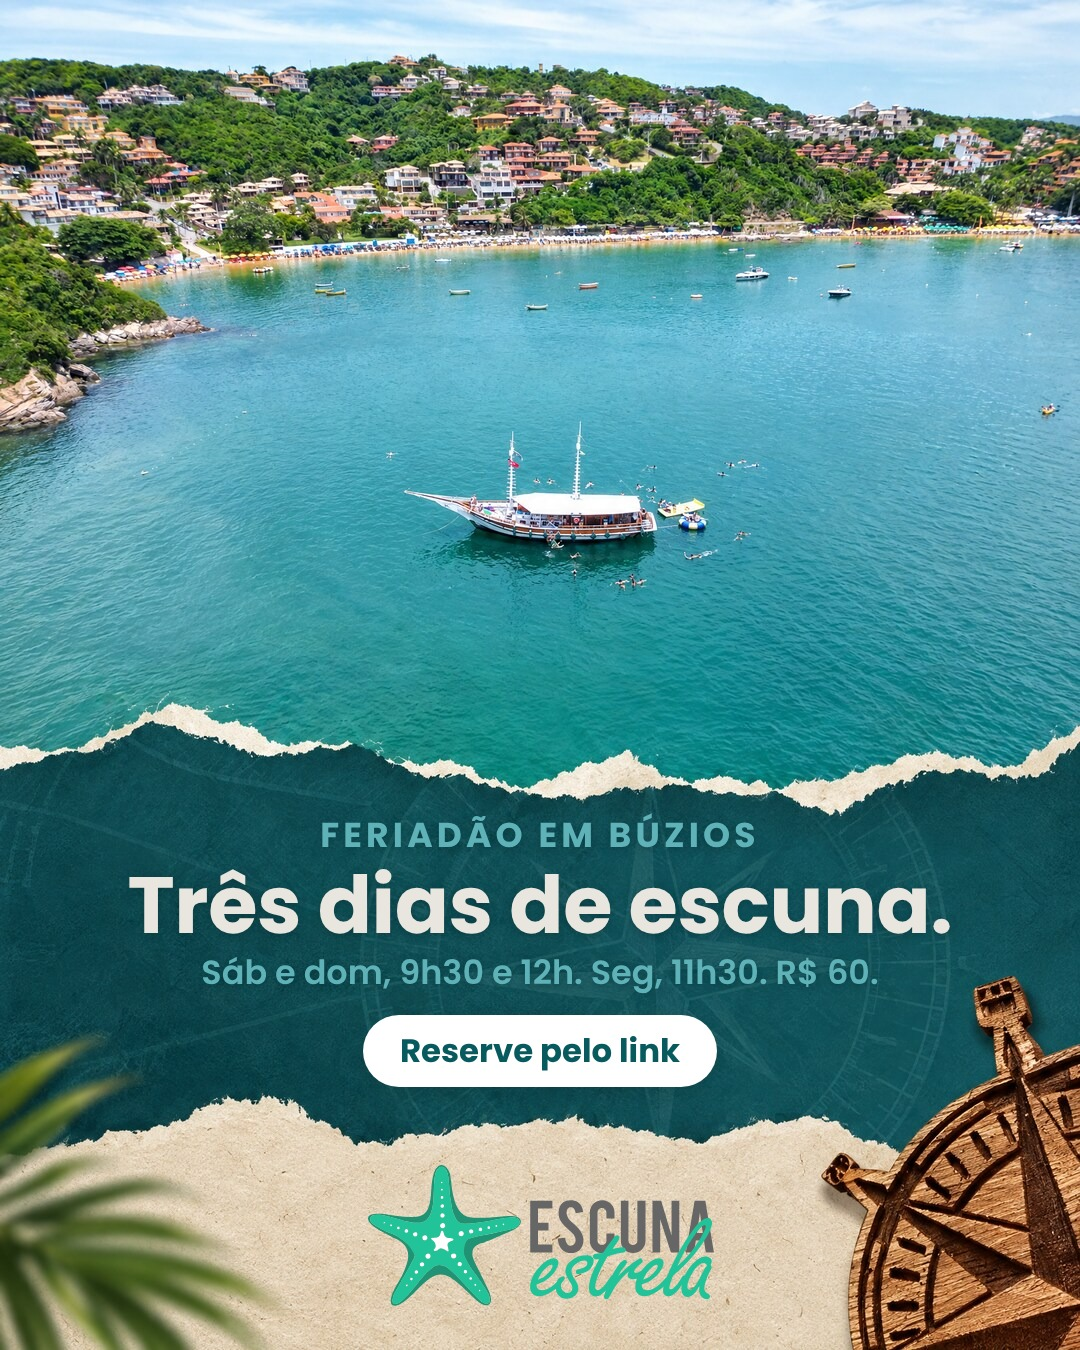
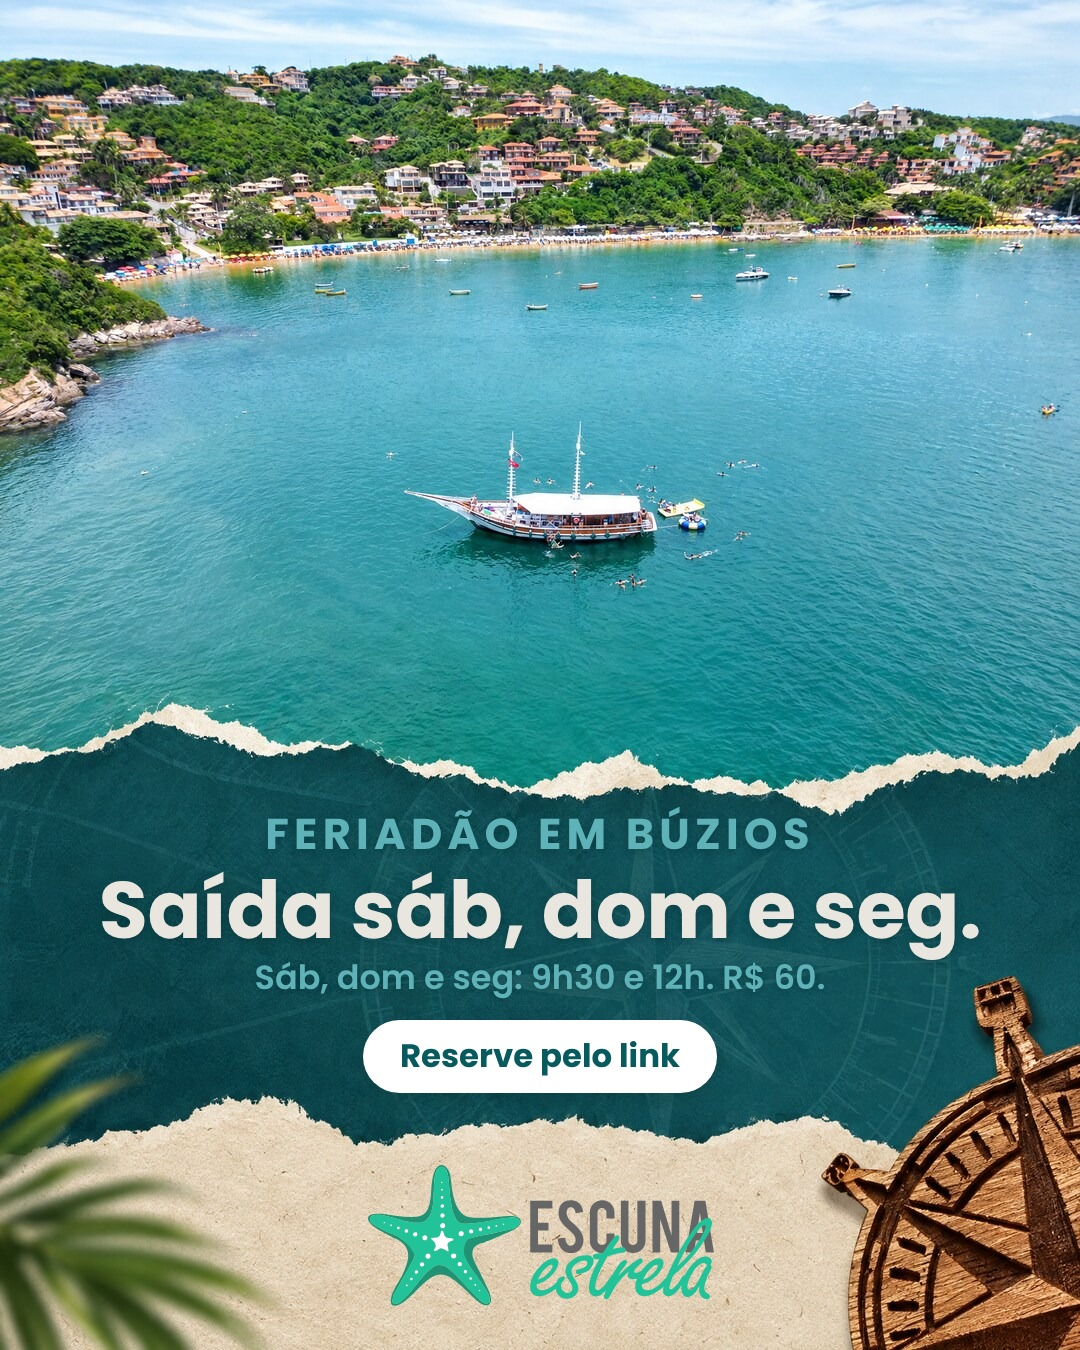
fix(criativos): feriadão — título C "Saída sáb, dom e seg.", seg com 9h30 e 12h, chapéu maior
Dono rejeitou "Três dias de escuna." (parecia passeio de 3 dias) e escolheu a
opção C. Pediu segunda 2/nov também com 9h30 e 12h e o chapéu "Feriadão em
Búzios" mais destacado (3.4→4.3 no story, 3.2→4.0 no feed). Fato: "Sáb, dom e
seg: 9h30 e 12h. R$ 60." Legenda do feed ajustada. Observação registrada: as
saídas de seg 9h30/12h ainda não existem no banco (só 11h30) — conferir antes
de publicar.

Claude-Session: https://claude.ai/code/session_016ARSNAECKu73yHJ9gLAVus

Changed region(s): [[0.0917, 0.5911, 0.9167, 0.8089]]

diff --git a/scripts/creatives/lotes/2026-10-lancamento/README.md b/scripts/creatives/lotes/2026-10-lancamento/README.md
@@ -27,7 +27,7 @@ por peça; o resultado volta pra cá como ajuste nos specs.
 | 08a–d | como-funciona | Educativo | feed | 4:5 ×4 | virou carrossel de 4 cards (embarque → paradas → bar + CTA) |
 | 09 | story-horarios | Venda | story | 9:16 | aprovada |
 | 10a/b/c/d/e | story-amanha | Venda | story | 9:16 ×5 | 5 versões (9h30 e 12h / 11h30 / 12h / **11h30 e 14h30 com Armação dos Búzios**, 16/out / **"Vagas pra hoje e amanhã, 11h30"**, 24/out) pedidas pelo dono; o 10 original saiu. A 10d fica com regra de dias pendente (fatos-do-produto não tem 14h30); a 10e só vale seg–qui (hoje e amanhã com saída às 11h30) |
-| 13 / 13b | feriadao | Venda | story + feed | 9:16 + 4:5 | Feriadão de Finados (31/out a 2/nov): story "Três dias de escuna." com chapéu "Feriadão em Búzios" e feed 4:5 na aérea de João Fernandes. Válidas só no feriadão; horários conferidos no banco em 31/out |
+| 13 / 13b | feriadao | Venda | story + feed | 9:16 + 4:5 | Feriadão de Finados (31/out a 2/nov): story "Saída sáb, dom e seg." com chapéu "Feriadão em Búzios" em destaque (título C escolhido pelo dono; seg 2/nov com 9h30 e 12h por decisão dele) e feed 4:5 na aérea de João Fernandes. Válidas só no feriadão; horários conferidos no banco em 31/out |
 | 11 | anuncio-whatsapp | Venda | meta-ads | 1200×628 | **descartada** (`_descartado-11-…json`) |
 | 12 | anuncio-site | Venda | meta-ads | 1200×628 | refeita: anuncio-kraft (logos na faixa de papel) |
 
